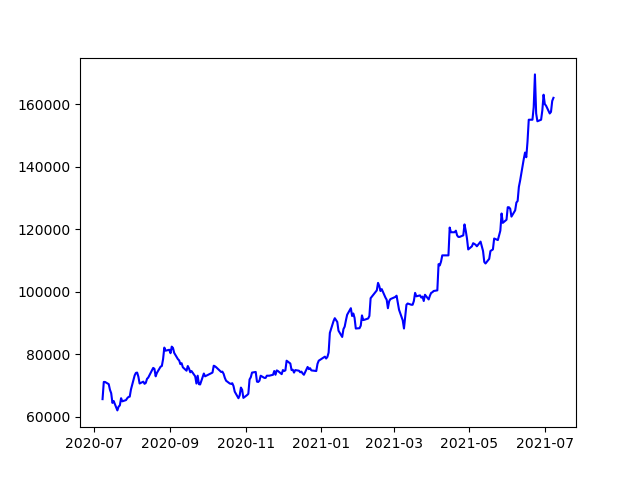
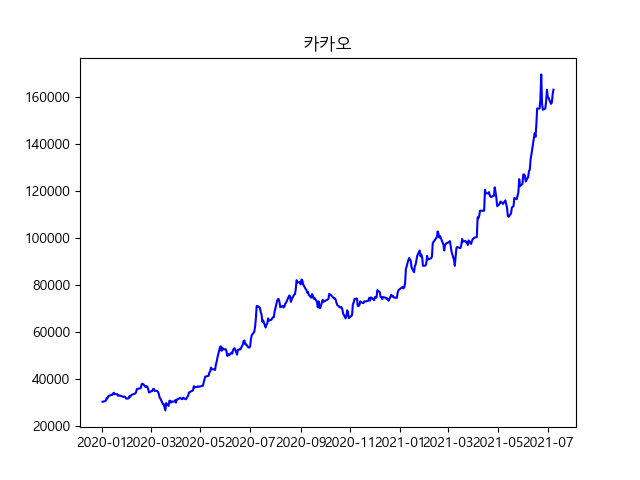
Update corporate-performance

diff --git a/pdf-download/woori-pdf_download.py b/pdf-download/woori-pdf_download.py
@@ -1,0 +1,111 @@
+import matplotlib.pyplot as plt
+import urllib.request
+import sys
+import os
+from bs4 import BeautifulSoup
+from urllib.parse import quote
+from urllib.request import Request, urlopen
+from urllib import request
+from tika import parser
+from krwordrank.word import summarize_with_keywords
+from wordcloud import WordCloud
+
+WOORI_URL = 'http://www.wfri.re.kr'
+TARGET_URL = '/home/sub01_01.php?stxt3=&sse=&skind=TOTAL&sword='
+font_path = './NanumFont/NanumBarunGothic.ttf'
+stopwords = {'0.','1.','2.','3.','4.','5.','10','20','주:','자료:'}
+download_links = []
+texts = []
+
+# 기사 검색 페이지에서 기사 제목에 링크된 기사 본문 주소 받아오기
+def get_link_from_news_title(URL):
+    
+        source_code_from_URL = urllib.request.urlopen(URL)
+        soup = BeautifulSoup(source_code_from_URL, 'lxml', from_encoding='utf-8')
+
+        for title in soup.find_all('td', {'class':'t_left tit'}):
+            title_link = title.select('a')
+            article_URL = WOORI_URL + title_link[0]['href']
+            get_download_link(article_URL)
+
+def get_download_link(URL):
+    source_code_from_URL = Request(URL, headers={'User-Agent': 'Mozilla/5.0'})
+    soup = BeautifulSoup(urlopen(source_code_from_URL), 'lxml', from_encoding='utf-8')
+    for item in soup.find_all('div', {'class':'disk'}):
+        link = item.select('a')
+        download_link = WOORI_URL + link[0]['href']
+    download_links.append(download_link)
+
+def createFolder(directory):
+    try:
+        if not os.path.exists(directory):
+            os.makedirs(directory)
+    except OSError:
+        print ('Error: Creating directory. ' +  directory)
+
+def download(url, fname):
+    mem = request.urlopen(url).read()
+    if os.path.exists(fname):
+        print("이미 존재하는 파일입니다.")
+    else:
+        with open(fname, mode="wb") as f:
+            f.write(mem)
+            print("저장되었습니다.")
+
+# PDF 파일에서 텍스트를 추출
+def get_text(path):
+    raw_pdf = parser.from_file(path)
+    contents = raw_pdf['content']
+    contents = contents.strip()
+    text = contents.split('\n')
+    texts[len(texts):len(texts)] = text
+
+# 키워드를 찾는 함수
+def find_keyword(fname):
+    keywords = summarize_with_keywords(texts, min_count=5, max_length=10,
+                                       beta=0.85, max_iter=10, stopwords=stopwords)
+
+    print('\n\n ' + fname + '키워드 분석 결과')
+    for word, score in sorted(keywords.items(), key=lambda x: -x[1])[:30]:
+        print('%8s:\t%.4f' % (word, score))
+
+    krwordrank_cloud = WordCloud(
+        font_path=font_path,
+        width=800,
+        height=800,
+        background_color="white"
+    )
+
+    krwordrank_cloud = krwordrank_cloud.generate_from_frequencies(keywords)
+    fig = plt.figure(figsize=(10, 10))
+    plt.imshow(krwordrank_cloud, interpolation="bilinear")
+    plt.axis('off')
+    plt.show()
+    fig.savefig(fname+'.png')
+
+# 메인함수
+def main(argv):
+    if len(argv) != 2:
+        print("python [모듈이름] [키워드]")
+        return
+    keyword = argv[1]
+    path = './' + keyword + '/'
+    i = 0
+    url = WOORI_URL + TARGET_URL + quote(keyword)
+    get_link_from_news_title(url)
+    createFolder(path)
+
+    for link in download_links:
+        i += 1
+        download(link[:83], path + keyword + str(i) + '.pdf')
+    for j in range(1, i + 1):
+        get_text(path + keyword + str(j) + '.pdf')
+
+    if (texts != []):
+        find_keyword(keyword)
+    else:
+        print(" 검색 결과가 없습니다.")
+
+
+if __name__ == '__main__':
+    main(sys.argv)

diff --git a/corporate-performance/crawling_donga.py b/corporate-performance/crawling_donga.py
@@ -1,0 +1,58 @@
+""" 동아일보 특정 키워드를 포함하는, 특정 날짜 이전 기사 내용 크롤러(정확도순 검색)
+    python [모듈 이름] [키워드] [가져올 페이지 숫자] [결과 파일명]
+    한 페이지에 기사 15개
+"""
+
+import sys
+from bs4 import BeautifulSoup
+import urllib.request
+from urllib.parse import quote
+
+TARGET_URL_BEFORE_PAGE_NUM = "http://news.donga.com/search?p="
+TARGET_URL_BEFORE_KEWORD = '&query='
+TARGET_URL_REST = '&check_news=1&more=1&sorting=3&search_date=1&v1=&v2=&range=3'
+
+
+# 기사 검색 페이지에서 기사 제목에 링크된 기사 본문 주소 받아오기
+def get_link_from_news_title(page_num, URL, output_file):
+    for i in range(page_num):
+        current_page_num = 1 + i*15
+        position = URL.index('=')
+        URL_with_page_num = URL[: position+1] + str(current_page_num) \
+                            + URL[position+1 :]
+        source_code_from_URL = urllib.request.urlopen(URL_with_page_num)
+        soup = BeautifulSoup(source_code_from_URL, 'lxml',
+                             from_encoding='utf-8')
+        for title in soup.find_all('p', 'tit'):
+            title_link = title.select('a')
+            article_URL = title_link[0]['href']
+            get_text(article_URL, output_file)
+
+
+# 기사 본문 내용 긁어오기 (위 함수 내부에서 기사 본문 주소 받아 사용되는 함수)
+def get_text(URL, output_file):
+    source_code_from_url = urllib.request.urlopen(URL)
+    soup = BeautifulSoup(source_code_from_url, 'lxml', from_encoding='utf-8')
+    content_of_article = soup.select('div.article_txt')
+    for item in content_of_article:
+        string_item = str(item.find_all(text=True))
+        output_file.write(string_item)
+
+
+# 메인함수
+def main(argv):
+    if len(argv) != 4:
+        print("python [모듈이름] [키워드] [가져올 페이지 숫자] [결과 파일명]")
+        return
+    keyword = argv[1]
+    page_num = int(argv[2])
+    output_file_name = argv[3]
+    target_URL = TARGET_URL_BEFORE_PAGE_NUM + TARGET_URL_BEFORE_KEWORD \
+                 + quote(keyword) + TARGET_URL_REST
+    output_file = open(output_file_name, 'w')
+    get_link_from_news_title(page_num, target_URL, output_file)
+    output_file.close()
+
+
+if __name__ == '__main__':
+    main(sys.argv)

diff --git a/corporate-performance/crawling_naver.py b/corporate-performance/crawling_naver.py
@@ -1,0 +1,56 @@
+""" 네이버 뉴스 특정 키워드를 포함하는, 특정 날짜 이전 기사 내용 크롤러(정확도순 검색)
+    python [모듈 이름] [키워드] [가져올 페이지 숫자] [결과 파일명]
+    한 페이지에 기사 15개
+"""
+
+import sys
+from bs4 import BeautifulSoup
+import urllib.request
+from urllib.parse import quote
+from urllib.request import Request, urlopen
+
+TARGET_URL_BEFORE_PAGE_NUM = "https://search.naver.com/search.naver?"
+TARGET_URL_BEFORE_KEWORD = 'where=news&query='
+TARGET_URL_REST = '&start='
+
+# 기사 검색 페이지에서 기사 제목에 링크된 기사 본문 주소 받아오기
+def get_link_from_news_title(page_num, URL, output_file):
+    for i in range(page_num):
+        current_page_num = 1 + i * 10
+
+        URL_with_page_num = URL[:] + str(current_page_num)
+        source_code_from_URL = urllib.request.urlopen(URL_with_page_num)
+        soup = BeautifulSoup(source_code_from_URL, 'lxml', from_encoding='utf-8')
+
+        for title in soup.find_all('div', 'news_wrap api_ani_send'):
+            title_link = title.select('a')
+            article_URL = title_link[4]['href']
+
+        get_text(article_URL, output_file)
+
+# 기사 본문 내용 긁어오기 (위 함수 내부에서 기사 본문 주소 받아 사용되는 함수)
+def get_text(URL, output_file):
+    source_code_from_URL = Request(URL, headers={'User-Agent': 'Mozilla/5.0'})
+    soup = BeautifulSoup(urlopen(source_code_from_URL), 'lxml', from_encoding='utf-8')
+    text = ''
+    for item in soup.find_all('div', id='articleBodyContents'):
+        text = text + str(item.find_all(text=True))
+        output_file.write(text)
+
+# 메인함수
+def main(argv):
+    if len(argv) != 4:
+        print("python [모듈이름] [키워드] [가져올 페이지 숫자] [결과 파일명]")
+        return
+    keyword = argv[1]
+    page_num = int(argv[2])
+    output_file_name = argv[3]
+    target_URL = TARGET_URL_BEFORE_PAGE_NUM + TARGET_URL_BEFORE_KEWORD \
+                 + quote(keyword) + TARGET_URL_REST
+
+    output_file = open(output_file_name, 'w', encoding='utf-8')
+    get_link_from_news_title(page_num, target_URL, output_file)
+    output_file.close()
+
+if __name__ == '__main__':
+    main(sys.argv)

diff --git a/stock-visualization/visualize_stock.py b/stock-visualization/visualize_stock.py
@@ -1,0 +1,43 @@
+import csv
+import sys
+
+import yfinance as yf
+import matplotlib.pyplot as plt
+import matplotlib
+from pandas_datareader import data as pdr
+
+stocks = {}
+
+def save_stock(path):
+    f = open(path, 'r', encoding='utf-8')
+    reader = csv.reader(f)
+    stock_csv = {row[0]:(row[1]+'.KS') for row in reader}
+    f.close()
+    return stock_csv
+
+def visualize_stock(name, start):
+    code = stocks.get(name)
+    if code == None:
+        print(name+"는 주식 종목에 존재하지 않습니다.")
+    else:
+        stock = pdr.get_data_yahoo(code, start=start)
+        plt.plot(stock.index, stock.Close, 'b', label=name)
+        fig = plt.gcf()
+        plt.title(name)
+        plt.show()
+        fig.savefig(name+'.png')
+
+def main(argv):
+    if len(argv) != 3:
+        print("python [모듈이름] [주식 이름] [시작일]")
+        return
+    name = argv[1]
+    start = argv[2]
+    visualize_stock(name, start)
+
+if __name__ == '__main__':
+    matplotlib.rcParams['font.family'] ='Malgun Gothic'
+    matplotlib.rcParams['axes.unicode_minus'] = False
+    stocks = save_stock('KR-Stock.csv')
+    yf.pdr_override()
+    main(sys.argv)

diff --git a/corporate-performance/crawling.py b/corporate-performance/crawling.py
@@ -1,0 +1,31 @@
+"""네이버 뉴스 기사 웹 크롤러 모듈"""
+ 
+from bs4 import BeautifulSoup
+from urllib.request import Request, urlopen
+ 
+# 출력 파일 명
+OUTPUT_FILE_NAME = 'output.txt'
+# 긁어 올 URL
+URL = 'https://news.naver.com/main/read.nhn?mode=LSD&mid=sec&sid1=102&oid=421&aid=0005443600'
+ 
+ 
+# 크롤링 함수
+def get_text(URL):
+    source_code_from_URL = Request(URL, headers={'User-Agent': 'Mozilla/5.0'})    
+    soup = BeautifulSoup(urlopen(source_code_from_URL), 'lxml', from_encoding='UTF-8')
+    text = ''
+    for item in soup.find_all('div', id='articleBodyContents'):
+        text = text + str(item.find_all(text=True))
+    return text
+ 
+ 
+# 메인 함수
+def main():
+    open_output_file = open(OUTPUT_FILE_NAME, 'w', encoding='UTF-8')
+    result_text = get_text(URL)
+    open_output_file.write(result_text)
+    open_output_file.close()
+
+    
+if __name__ == '__main__':
+    main()

diff --git a/corporate-performance/naver_stock.py b/corporate-performance/naver_stock.py
@@ -1,0 +1,25 @@
+"""네이버 뉴스 기사 웹 크롤러 모듈"""
+ 
+from bs4 import BeautifulSoup
+from urllib.request import Request, urlopen
+
+# 긁어 올 URL
+URL = 'https://finance.naver.com/item/main.nhn?code=005930'
+ 
+ 
+# 크롤링 함수
+def get_text(URL):
+    source_code_from_URL = Request(URL, headers={'User-Agent': 'Mozilla/5.0'})    
+    soup = BeautifulSoup(urlopen(source_code_from_URL), 'lxml', from_encoding='UTF-8')
+    table = soup.find('table', {'class': 'tb_type1 tb_num tb_type1_ifrs'}):
+    tbody = table.select('tbody')
+    print(tbody)
+
+
+# 메인 함수
+def main():
+    get_text(URL)
+
+if __name__ == '__main__':
+    main()
+

diff --git a/stock-visualization/visualize_stock(ver.1.0).py b/stock-visualization/visualize_stock(ver.1.0).py
@@ -1,6 +1,6 @@
 from pandas_datareader import data as pdr
-import yfinance as yf
 import matplotlib.pyplot as plt
+import yfinance as yf
 
 def visualize_stock(name, code, start):
     stock = pdr.get_data_yahoo(code, start=start)
